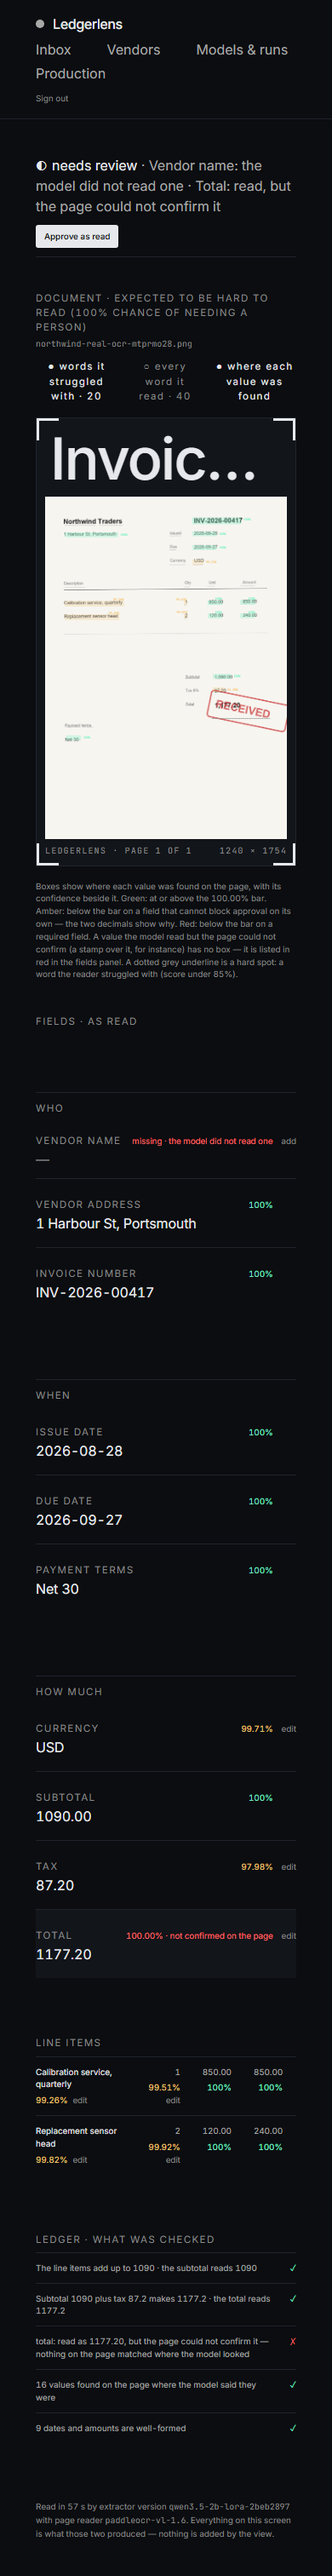
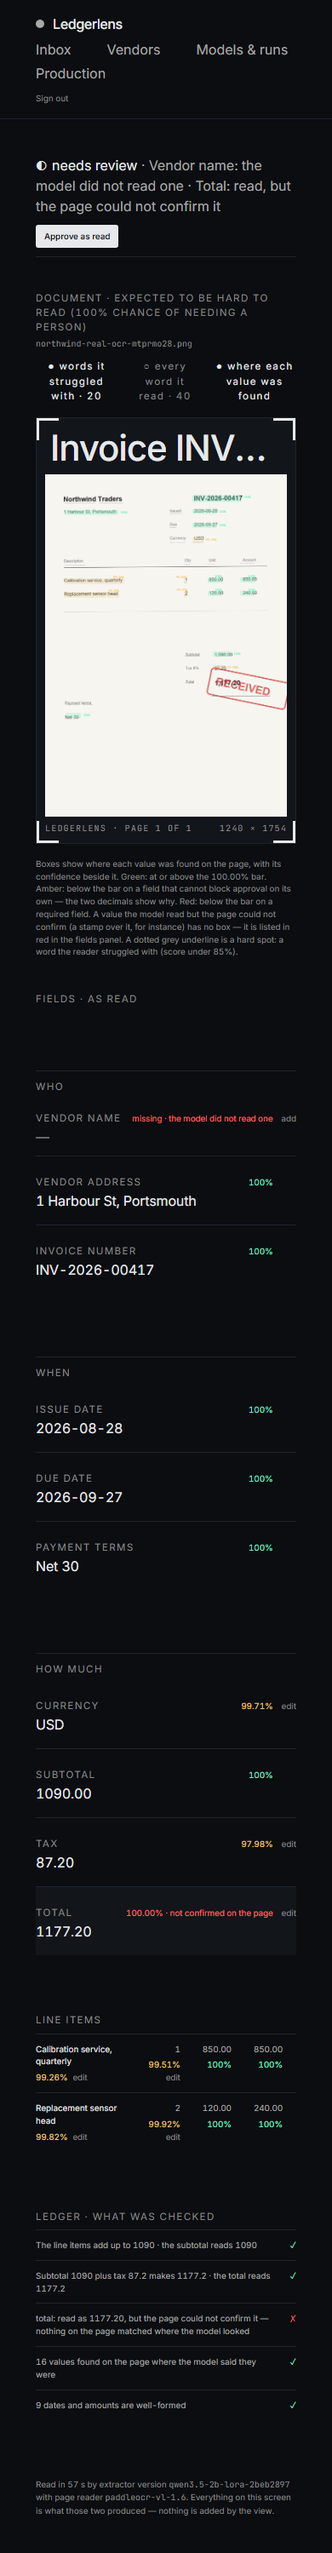
fix(web): review directions - pins no longer overlap (gap 6.4 % of the page); the document title one step down on a phone so it is never truncated to 'Invoic…' (a loop-1 defect the gate-5 renders caught)
Claude-Session: https://claude.ai/code/session_01B6u4L5DX7iK4uWMVRPSbzu

diff --git a/apps/web/src/components/transparency-view.tsx b/apps/web/src/components/transparency-view.tsx
@@ -238,7 +238,9 @@ export function TransparencyView({ doc, variant = "a" }: { doc: DocumentDetailOu
           {/* the title lettered inside the plate (bar.md M1, round 11): what the page is — its
               vendor and invoice number as read — at the display step; the filename, the
               identifier, sits above the frame in monospace (DESIGN.md) */}
-          <h1 className="truncate px-2 pb-3 pt-1 text-step-3 font-medium leading-none tracking-tight" title={documentTitle}>
+          {/* one step down on a phone: at the display step "Invoice INV-2026-00417" truncated to
+              "Invoic…" on 390 px (gate 5 renders) */}
+          <h1 className="truncate px-2 pb-3 pt-1 text-step-2 font-medium leading-none tracking-tight md:text-step-3" title={documentTitle}>
             {documentTitle}
           </h1>
         <div className={variant === "c" ? "grid grid-cols-[minmax(0,1fr)] gap-3 md:grid-cols-[minmax(0,1fr)_220px]" : ""}>
@@ -566,7 +568,7 @@ function Pins({
   onSelect: (id: string) => void;
   onAdd: (name: string) => void;
 }) {
-  const MIN_GAP = 4.2; // percent of the page height ≈ 36 px on a 880 px render
+  const MIN_GAP = 6.4; // percent of the page height ≈ 56 px on a 880 px render — a pin is ~48 px tall
   const placed = fields
     .filter((f) => f.boxes.length > 0)
     .map((f) => ({ f, y: (Math.min(...f.boxes.map((b) => b[2])) / pageHeight) * 100 }))
